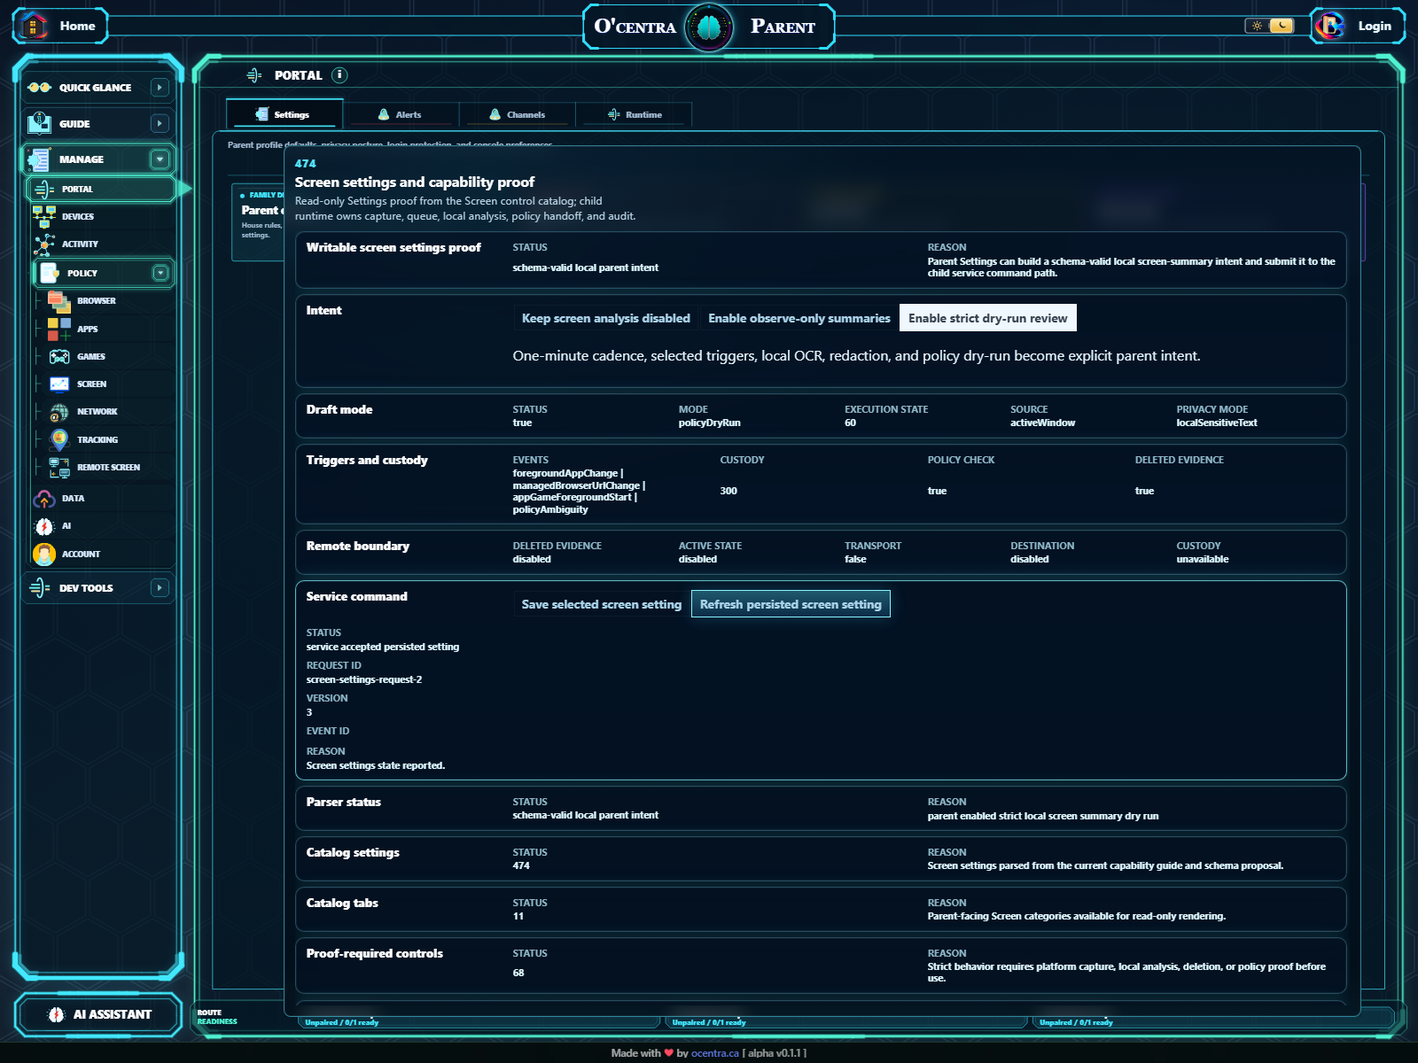
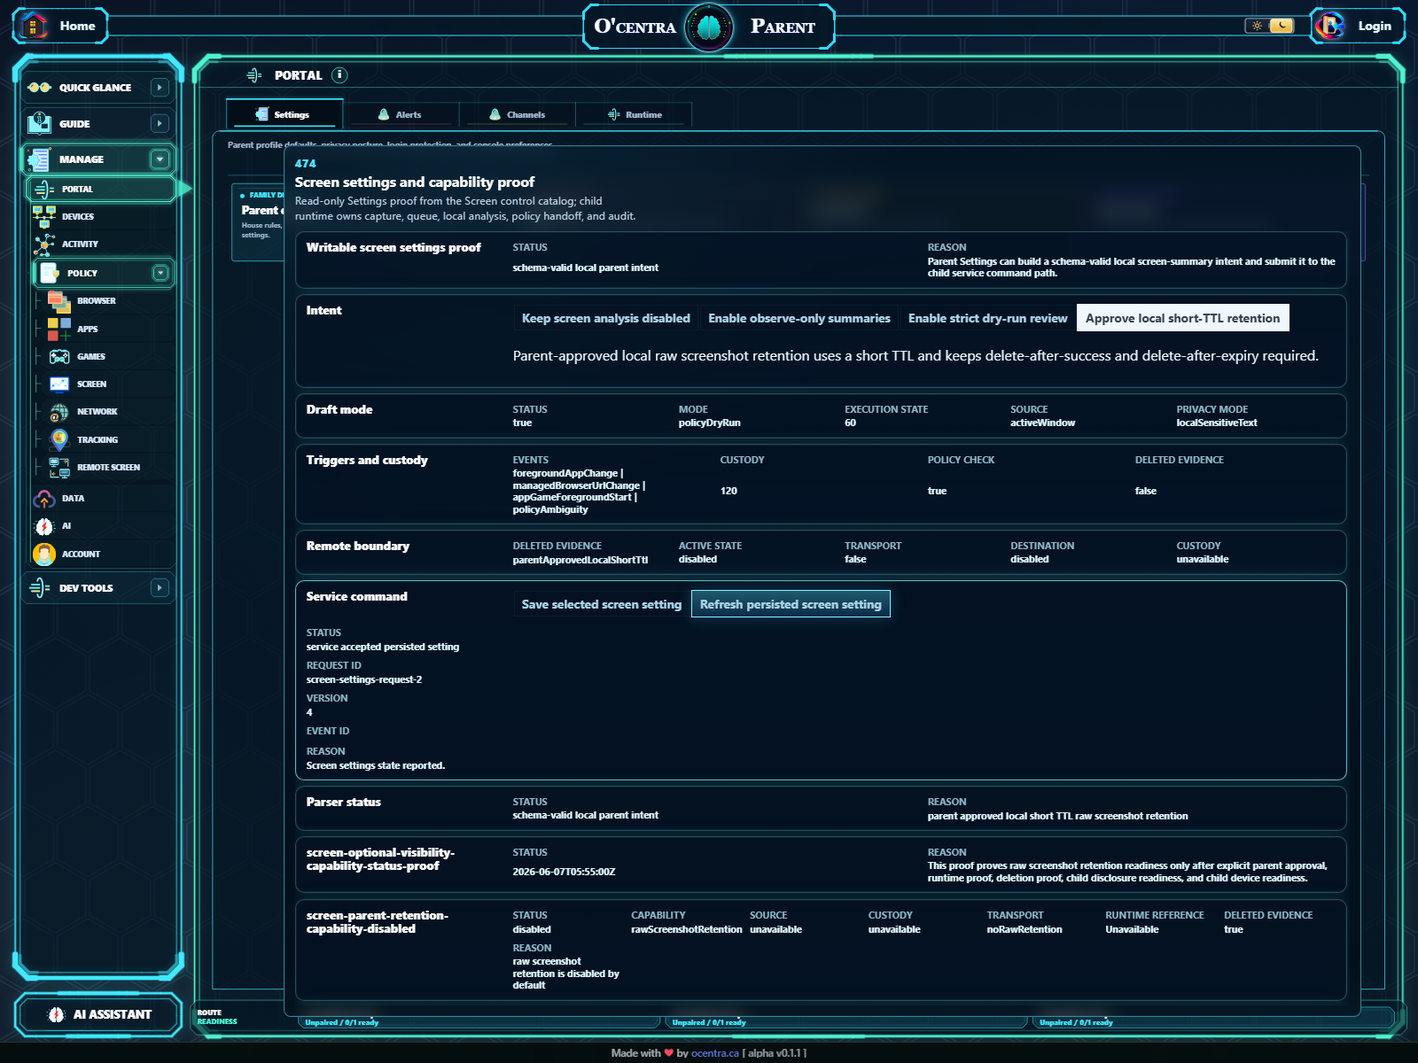
proof: persist approved raw-retention setting from portal

diff --git a/packages/activity-domain/src/screen-evidence-settings-ui-proof.ts b/packages/activity-domain/src/screen-evidence-settings-ui-proof.ts
@@ -8,7 +8,12 @@ import { ScreenEvidenceSchemaVersion } from './screen-evidence-primitives';
 const ScreenSettingsUiTextSchema = Schema.String.pipe(Schema.minLength(1));
 
 export const ScreenEvidenceSettingsUiIntentKeySchema = withParser(
-  Schema.Literal('disabledLocalSummary', 'observeOnlyLocalSummary', 'strictDryRunLocalSummary')
+  Schema.Literal(
+    'disabledLocalSummary',
+    'observeOnlyLocalSummary',
+    'strictDryRunLocalSummary',
+    'approvedRawRetentionLocalTtl'
+  )
 );
 
 export const ScreenEvidenceSettingsUiIntentSchema = withParser(
@@ -41,7 +46,7 @@ export const ScreenEvidenceSettingsUiProofSchema = withParser(
     validationStatusValue: ScreenSettingsUiTextSchema,
     defaultIntentKey: ScreenEvidenceSettingsUiIntentKeySchema,
     intents: Schema.Array(ScreenEvidenceSettingsUiIntentSchema).pipe(
-      Schema.filter((value) => value.length === 3 || 'Expected three parent Screen settings UI intents')
+      Schema.filter((value) => value.length === 4 || 'Expected four parent Screen settings UI intents')
     ),
   })
 );
@@ -74,6 +79,9 @@ const ScreenSettingsUiCopy = {
   strictLabel: 'Enable strict dry-run review',
   strictDetail:
     'One-minute cadence, selected triggers, local OCR, redaction, and policy dry-run become explicit parent intent.',
+  rawRetentionLabel: 'Approve local short-TTL retention',
+  rawRetentionDetail:
+    'Parent-approved local raw screenshot retention uses a short TTL and keeps delete-after-success and delete-after-expiry required.',
 } as const;
 
 const DisabledSetting = ScreenAnalysisParentSettingSchema.parse({
@@ -136,6 +144,15 @@ const StrictDryRunSetting = ScreenAnalysisParentSettingSchema.parse({
   reason: 'parent enabled strict local screen summary dry run',
 });
 
+const ApprovedRawRetentionSetting = ScreenAnalysisParentSettingSchema.parse({
+  ...StrictDryRunSetting,
+  temporaryImageTtlSeconds: 120,
+  retainRawImage: true,
+  changedByParentRef: 'screen-settings-ui-parent-raw-retention-local-ttl',
+  settingVersion: 4,
+  reason: 'parent approved local short TTL raw screenshot retention',
+});
+
 const DisabledRemoteBoundarySetting = ScreenEvidenceRemoteBoundarySettingSchema.parse({
   schemaVersion: ScreenEvidenceSchemaVersion,
   parentSettingRef: 'screen-settings-ui-remote-boundary',
@@ -191,6 +208,12 @@ export function screenEvidenceSettingsWritableUiProof(): ScreenEvidenceSettingsU
         ScreenSettingsUiCopy.strictDetail,
         StrictDryRunSetting
       ),
+      intent(
+        'approvedRawRetentionLocalTtl',
+        ScreenSettingsUiCopy.rawRetentionLabel,
+        ScreenSettingsUiCopy.rawRetentionDetail,
+        ApprovedRawRetentionSetting
+      ),
     ],
   });
 }
@@ -207,11 +230,22 @@ function intent(
     detail,
     setting,
     remoteBoundarySetting: {
-      ...DisabledRemoteBoundarySetting,
+      ...remoteBoundaryForSetting(setting),
       parentSettingRef: setting.changedByParentRef,
       settingVersion: setting.settingVersion,
       changedByParentRef: setting.changedByParentRef,
       changedAt: setting.changedAt,
     },
   };
+}
+
+function remoteBoundaryForSetting(setting: typeof DisabledSetting) {
+  if (setting.retainRawImage) {
+    return ScreenEvidenceRemoteBoundarySettingSchema.parse({
+      ...DisabledRemoteBoundarySetting,
+      rawScreenshotRetentionMode: 'parentApprovedLocalShortTtl',
+      reason: 'parent approved local short TTL raw screenshot retention without raw remote upload',
+    });
+  }
+  return DisabledRemoteBoundarySetting;
 }

diff --git a/packages/activity-domain/tests/screen-evidence-settings-ui-proof.test.ts b/packages/activity-domain/tests/screen-evidence-settings-ui-proof.test.ts
@@ -11,10 +11,11 @@ describe('screen evidence settings UI proof', () => {
   specifyDisabledIntent();
   specifyObserveOnlyIntent();
   specifyStrictDryRunIntent();
+  specifyApprovedRawRetentionIntent();
 });
 
 function specifyWritableIntentProof() {
-  it('builds disabled, observe-only, and strict dry-run parent setting intents from real schemas', () => {
+  it('builds disabled, observe-only, strict dry-run, and approved raw-retention intents from real schemas', () => {
     const proof = screenEvidenceSettingsWritableUiProof();
 
     expect(ScreenEvidenceSettingsUiProofSchema.safeParse(proof).success).toBe(true);
@@ -29,8 +30,10 @@ function specifyWritableIntentProof() {
       'disabledLocalSummary',
       'observeOnlyLocalSummary',
       'strictDryRunLocalSummary',
+      'approvedRawRetentionLocalTtl',
     ]);
     expect(proof.intents.map((intent) => ScreenAnalysisParentSettingSchema.safeParse(intent.setting).success)).toEqual([
+      true,
       true,
       true,
       true,
@@ -39,7 +42,7 @@ function specifyWritableIntentProof() {
       proof.intents.map(
         (intent) => ScreenEvidenceRemoteBoundarySettingSchema.safeParse(intent.remoteBoundarySetting).success
       )
-    ).toEqual([true, true, true]);
+    ).toEqual([true, true, true, true]);
   });
 }
 
@@ -88,5 +91,20 @@ function specifyStrictDryRunIntent() {
     expect(remoteBoundary?.rawScreenshotRetentionMode).toBe('disabled');
     expect(remoteBoundary?.liveViewMode).toBe('disabled');
     expect(remoteBoundary?.rawScreenshotRemoteUploadEnabled).toBe(false);
+  });
+}
+
+function specifyApprovedRawRetentionIntent() {
+  it('requires approved local short TTL retention to stay local and deletion-bound', () => {
+    const rawRetention = screenEvidenceSettingsWritableUiProof().intents[3]?.setting;
+    const remoteBoundary = screenEvidenceSettingsWritableUiProof().intents[3]?.remoteBoundarySetting;
+
+    expect(rawRetention?.retainRawImage).toBe(true);
+    expect(rawRetention?.temporaryImageTtlSeconds).toBe(120);
+    expect(rawRetention?.deleteAfterSuccess).toBe(true);
+    expect(rawRetention?.deleteAfterExpiry).toBe(true);
+    expect(remoteBoundary?.rawScreenshotRetentionMode).toBe('parentApprovedLocalShortTtl');
+    expect(remoteBoundary?.rawScreenshotRemoteUploadEnabled).toBe(false);
+    expect(remoteBoundary?.liveViewMode).toBe('disabled');
   });
 }

diff --git a/packages/activity-domain/src/screen-evidence-settings.ts b/packages/activity-domain/src/screen-evidence-settings.ts
@@ -24,6 +24,7 @@ import { ScreenOcrTextRetentionModeSchema } from './screen-ocr-redaction';
 const RequiredFalse = Schema.Literal(false);
 const RequiredTrue = Schema.Literal(true);
 const ScreenDisabledMode = Schema.Literal('disabled');
+const ScreenRawScreenshotRetentionModeSchema = withParser(Schema.Literal('disabled', 'parentApprovedLocalShortTtl'));
 const ScreenRemoteSummaryModeSchema = withParser(Schema.Literal('disabled', 'parentApprovedRedactedSummary'));
 const ApprovedRawRetentionMaxTtlSeconds = 120;
 
@@ -129,7 +130,7 @@ export const ScreenEvidenceRemoteBoundarySettingSchema = withParser(
     schemaVersion: Schema.Literal(ScreenEvidenceSchemaVersion),
     parentSettingRef: ScreenEvidenceParentSettingRefSchema,
     settingVersion: ScreenEvidenceSettingVersionSchema,
-    rawScreenshotRetentionMode: ScreenDisabledMode,
+    rawScreenshotRetentionMode: ScreenRawScreenshotRetentionModeSchema,
     liveViewMode: ScreenDisabledMode,
     rawScreenshotRemoteUploadEnabled: RequiredFalse,
     remoteSummaryMode: ScreenRemoteSummaryModeSchema,
@@ -156,6 +157,12 @@ export const ScreenEvidenceRemoteBoundarySettingSchema = withParser(
           value.remoteSummaryApprovalRef === null &&
           value.remoteSummaryDestinationCustodyState === 'unavailable') ||
         'Expected disabled remote screen summaries to have no approval ref or destination custody'
+    ),
+    Schema.filter(
+      (value) =>
+        value.rawScreenshotRetentionMode !== 'parentApprovedLocalShortTtl' ||
+        (!value.rawScreenshotRemoteUploadEnabled && value.liveViewMode === 'disabled') ||
+        'Expected local raw screenshot retention mode to keep raw remote upload and live view disabled'
     )
   )
 );

diff --git a/packages/activity-domain/tests/screen-evidence-retention.test.ts b/packages/activity-domain/tests/screen-evidence-retention.test.ts
@@ -179,6 +179,14 @@ const ParentApprovedSummaryBoundarySetting = {
   reason: 'parent approved redacted screen summary export',
 } as const;
 
+const ParentApprovedLocalRawRetentionBoundarySetting = {
+  ...DisabledRemoteBoundarySetting,
+  settingVersion: 4,
+  rawScreenshotRetentionMode: 'parentApprovedLocalShortTtl',
+  changedByParentRef: 'parent-setting-screen-retention-local-ttl-approval',
+  reason: 'parent approved local short TTL raw screenshot retention',
+} as const;
+
 describe('screen evidence retention contracts', () => {
   specifyParentOptInSettings();
   specifyQueueDeletionStates();
@@ -304,6 +312,10 @@ function specifyRemoteBoundaryDefaults() {
     expect(approvedSummary.remoteSummaryMode).toBe('parentApprovedRedactedSummary');
     expect(approvedSummary.remoteSummaryDestinationCustodyState).toBe('parent-owned-export');
     expect(approvedSummary.remoteSummaryRedactedOnly).toBe(true);
+    expect(
+      ScreenEvidenceRemoteBoundarySettingSchema.parse(ParentApprovedLocalRawRetentionBoundarySetting)
+        .rawScreenshotRetentionMode
+    ).toBe('parentApprovedLocalShortTtl');
   });
 }
 
@@ -344,6 +356,12 @@ function specifyRemoteBoundaryRejections() {
         ...DisabledRemoteBoundarySetting,
         remoteSummaryMode: 'disabled',
         parentApprovedRemoteSummary: true,
+      }).success
+    ).toBe(false);
+    expect(
+      ScreenEvidenceRemoteBoundarySettingSchema.safeParse({
+        ...ParentApprovedLocalRawRetentionBoundarySetting,
+        rawScreenshotRemoteUploadEnabled: true,
       }).success
     ).toBe(false);
   });

diff --git a/docs/plans/screen-plan/implementation-checklist.md b/docs/plans/screen-plan/implementation-checklist.md
@@ -39,7 +39,7 @@ trigger ownership unless the row explicitly says so.
 | Service settings persistence proof         | P2 service proof                | `output/screen-plan-proof/screen-settings-service-persistence/proof-summary.json`                                                                                                                                                                                                                                                                                                                                                                                                           | Proves Rust protocol setting structs and local JSON service persistence for parent screen settings, including reload and unsafe-setting rejection; no portal UI, product retention UI, raw retention, live view, or raw remote upload claimed.                                                                                                                                                                                                                                                                                                                                                                                                                                                                                                                                                                                                                                                                                             |
 | Service settings command proof             | P2 service proof                | `output/screen-plan-proof/screen-settings-service-command/proof-summary.json`                                                                                                                                                                                                                                                                                                                                                                                                               | Proves TypeScript protocol adapter, Rust command/event parity, WebSocket get/replace routing into the local JSON-backed service runtime, persisted strict dry-run get after restart, and raw-retention rejection before persistence; parent portal submit proof, product retention UI, raw retention, live view, and raw remote upload remain separate.                                                                                                                                                                                                                                                                                                                                                                                                                                                                                                                                                                                    |
 | Raw-retention runtime gate                 | P2 contract + service proof     | `output/screen-plan-proof/raw-retention-runtime/proof-summary.json`                                                                                                                                                                                                                                                                                                                                                                                                                         | Proves the shared `ScreenAnalysisParentSetting` contract and Rust settings runtime accept optional raw screenshot retention only as parent-approved local short-TTL mode with delete-after-success and delete-after-expiry still required, while rejecting long TTL, disabled-analysis, and delete-after-expiry=false raw-retention settings. Raw retention remains disabled by default; raw remote upload, long-term retention, parent retention-control UI, live view, relay/cache, privacy/legal approval, and broad platform parity remain separate.                                                                                                                                                                                                                                                                                                                                                                                   |
-| Parent Settings service command proof      | P3 real portal proof            | `output/screen-plan-proof/settings-service-command/proof-summary.json`; `output/screen-plan-proof/settings-service-command/parent-settings-service-command.png`                                                                                                                                                                                                                                                                                                                             | Proves the real parent Settings route submits strict dry-run settings through `agent.screen-settings.replace`, renders accepted service response/audit state, refreshes through `agent.screen-settings.get`, and verifies local JSON persistence with raw image retention disabled; product retention UI, raw retention, live view, raw remote upload, broad platform parity, and production OCR/VLM quality remain separate.                                                                                                                                                                                                                                                                                                                                                                                                                                                                                                              |
+| Parent Settings service command proof      | P3 real portal proof            | `output/screen-plan-proof/settings-service-command/proof-summary.json`; `output/screen-plan-proof/settings-service-command/parent-settings-service-command.png`                                                                                                                                                                                                                                                                                                                             | Proves the real parent Settings route submits approved local short-TTL raw retention through `agent.screen-settings.replace`, renders accepted service response/audit state, refreshes through `agent.screen-settings.get`, and verifies local JSON persistence with `retainRawImage:true` and `temporaryImageTtlSeconds:120`. Raw retention remains disabled by default; raw remote upload, live view, relay/cache, privacy/legal approval, broad platform parity, and production OCR/VLM quality remain separate.                                                                                                                                                                                                                                                                                                                                                                                                                        |
 | Remote/retention/live boundary proof       | P2 contract proved              | `output/screen-plan-proof/remote-retention-boundary/proof-summary.json`                                                                                                                                                                                                                                                                                                                                                                                                                     | Proves raw screenshot retention, live view, and raw remote upload are disabled in the local-summary boundary; no live transport or writable retention UI claimed.                                                                                                                                                                                                                                                                                                                                                                                                                                                                                                                                                                                                                                                                                                                                                                          |
 | Optional retention/live preflight          | P2 contract proved              | `output/screen-plan-proof/27-28-optional-retention-live-preflight/proof-summary.json`                                                                                                                                                                                                                                                                                                                                                                                                       | Proves separate explicit opt-in raw-retention/live-view modes with approval, audit, custody, TTL/delete/no-retention, platform-proof gates, and no remote input; no runtime transport claimed.                                                                                                                                                                                                                                                                                                                                                                                                                                                                                                                                                                                                                                                                                                                                             |
 | Live-view platform permission gate         | P2 fail-closed gate proved      | `output/screen-plan-proof/live-view-platform-permission/proof-summary.json`                                                                                                                                                                                                                                                                                                                                                                                                                 | Proves ordinary capture permission evidence, including the existing Android MediaProjection capture-consent proof, cannot make live view product-ready without live-view permission-prompt evidence, viewer audit, live transport proof, no frame retention, and no remote input. No live transport, platform screenshots, service session, relay/cache execution, or privacy/legal approval is claimed.                                                                                                                                                                                                                                                                                                                                                                                                                                                                                                                                   |
@@ -192,7 +192,7 @@ legacy household-provider route or runtime-discovery proofs.
       not-claimed enforcement details, and desktop/mobile screenshots.
 - [x] Parent Settings route submits screen settings through the real
       portal/agent get/replace command path and renders accepted service
-      persistence status without raw retention.
+      persistence status, including approved local short-TTL raw retention.
 - [x] Screen-derived household provider jobs prove no raw screenshot transfer,
       claim/lease, child-agent result validation, and custody before policy.
 - [x] Platform capture proof exists before platform claim.

diff --git a/docs/features/screen-evidence-analysis.md b/docs/features/screen-evidence-analysis.md
@@ -321,16 +321,18 @@ only with explicit parent settings.
   not parent portal form submission, product-complete retention-control UI,
   raw retention enablement, live view, or raw remote upload.
 - `scripts/test/screen-settings-portal-service-command-proof.mjs` now proves
-  the real parent Settings route submits schema-valid screen setting changes
-  through the Rust service WebSocket command path. The proof starts the actual
-  agent and Vite portal, clicks the strict dry-run setting, sends
-  `agent.screen-settings.replace`, renders the accepted service response and
-  audit ref, sends `agent.screen-settings.get`, verifies the persisted strict
-  no-raw-retention JSON store, and captures
+  the real parent Settings route submits the parent-approved local short-TTL raw
+  retention intent through the Rust service WebSocket command path. The proof
+  starts the actual agent and Vite portal, clicks the approved retention
+  setting, sends `agent.screen-settings.replace`, renders the accepted service
+  response and audit ref, sends `agent.screen-settings.get`, verifies the
+  persisted JSON store has `retainRawImage:true` with
+  `temporaryImageTtlSeconds:120`, and captures
   `output/screen-plan-proof/settings-service-command/parent-settings-service-command.png`.
-  This is portal-to-service settings persistence proof; product-complete
-  retention controls, raw retention, live view, raw remote upload, and
-  production OCR/VLM quality remain separate gates.
+  This is portal-to-service settings persistence proof for the local approved
+  short-TTL mode; raw retention still remains disabled by default, raw remote
+  upload remains forbidden, and live view, relay/cache, privacy/legal approval,
+  broad platform parity, and production OCR/VLM quality remain separate gates.
 - `scripts/test/screen-ai-service-cadence-proof.mjs` now proves an explicit
   opt-in Rust service cadence loop on Windows: it opens a real foreground
   browser fixture, records three timed active-window captures through the
@@ -760,7 +762,8 @@ only with explicit parent settings.
 
 ## Current Gap
 
-Product-complete parent retention controls, actual production live-view worker
+Product-complete retention-control rollout beyond the proved parent-approved
+local short-TTL Settings command path, actual production live-view worker
 start/relay-cache transport,
 platform permission prompt proof, physical-device live-view parity, child-agent
 disclosure runtime deployment,
